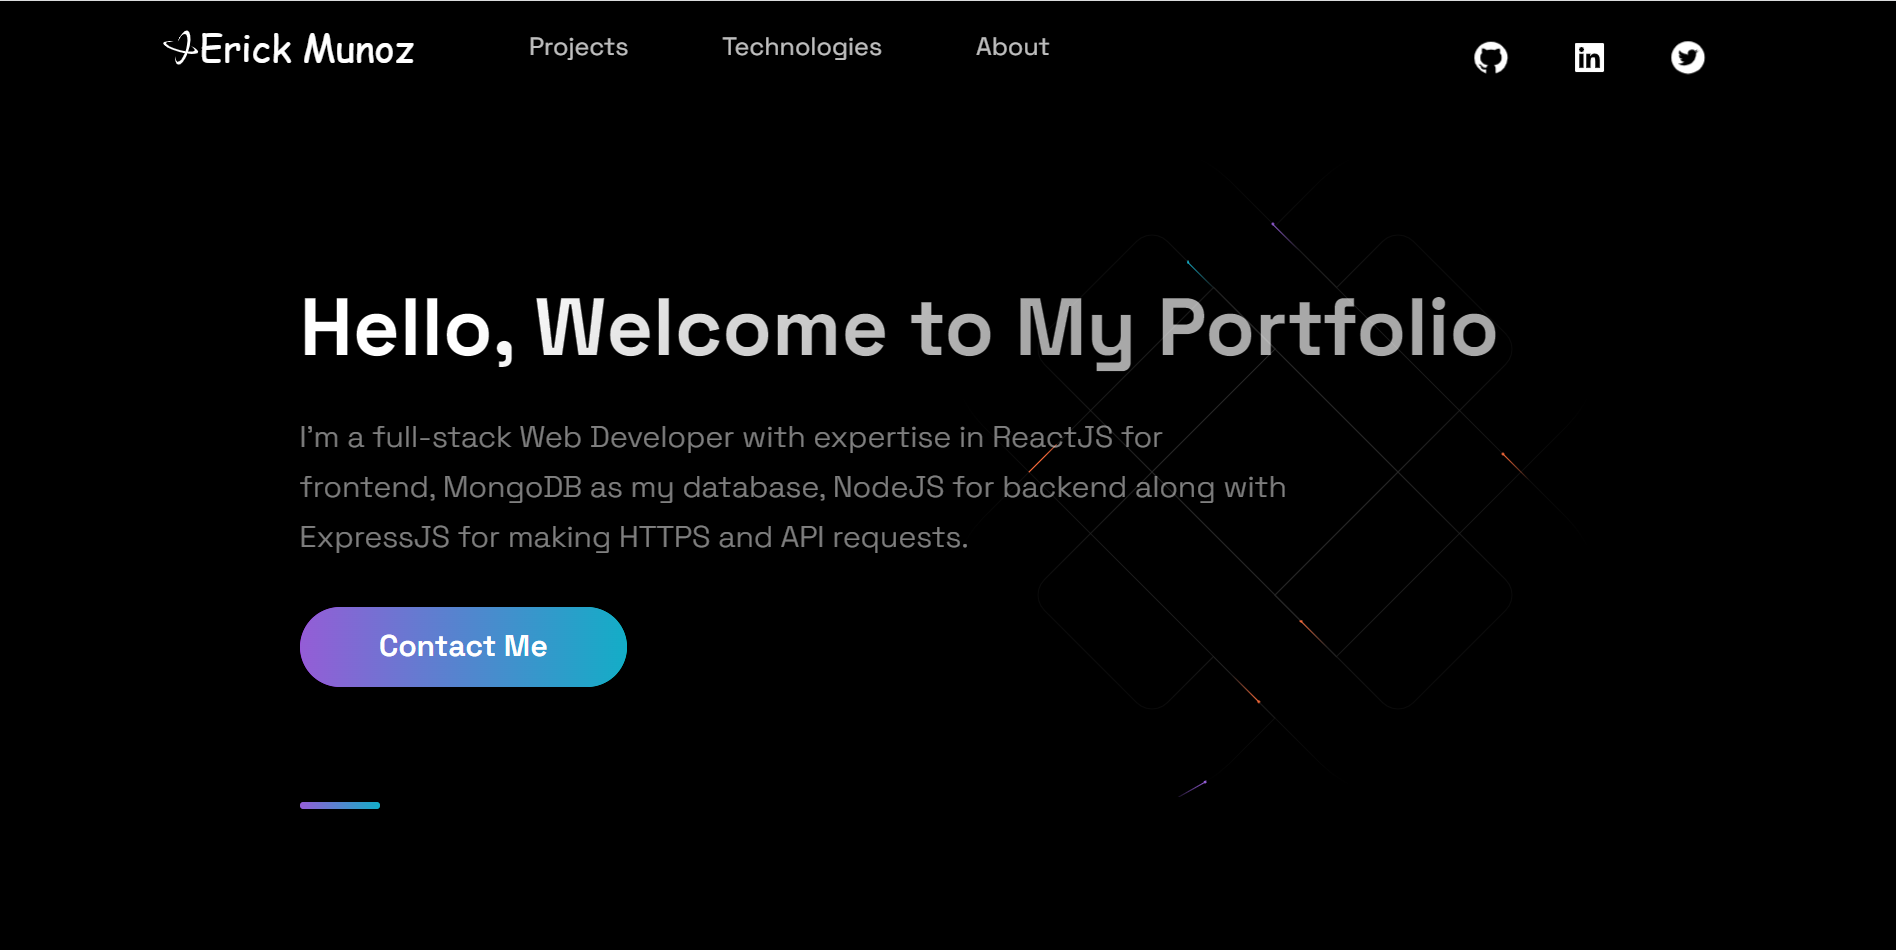
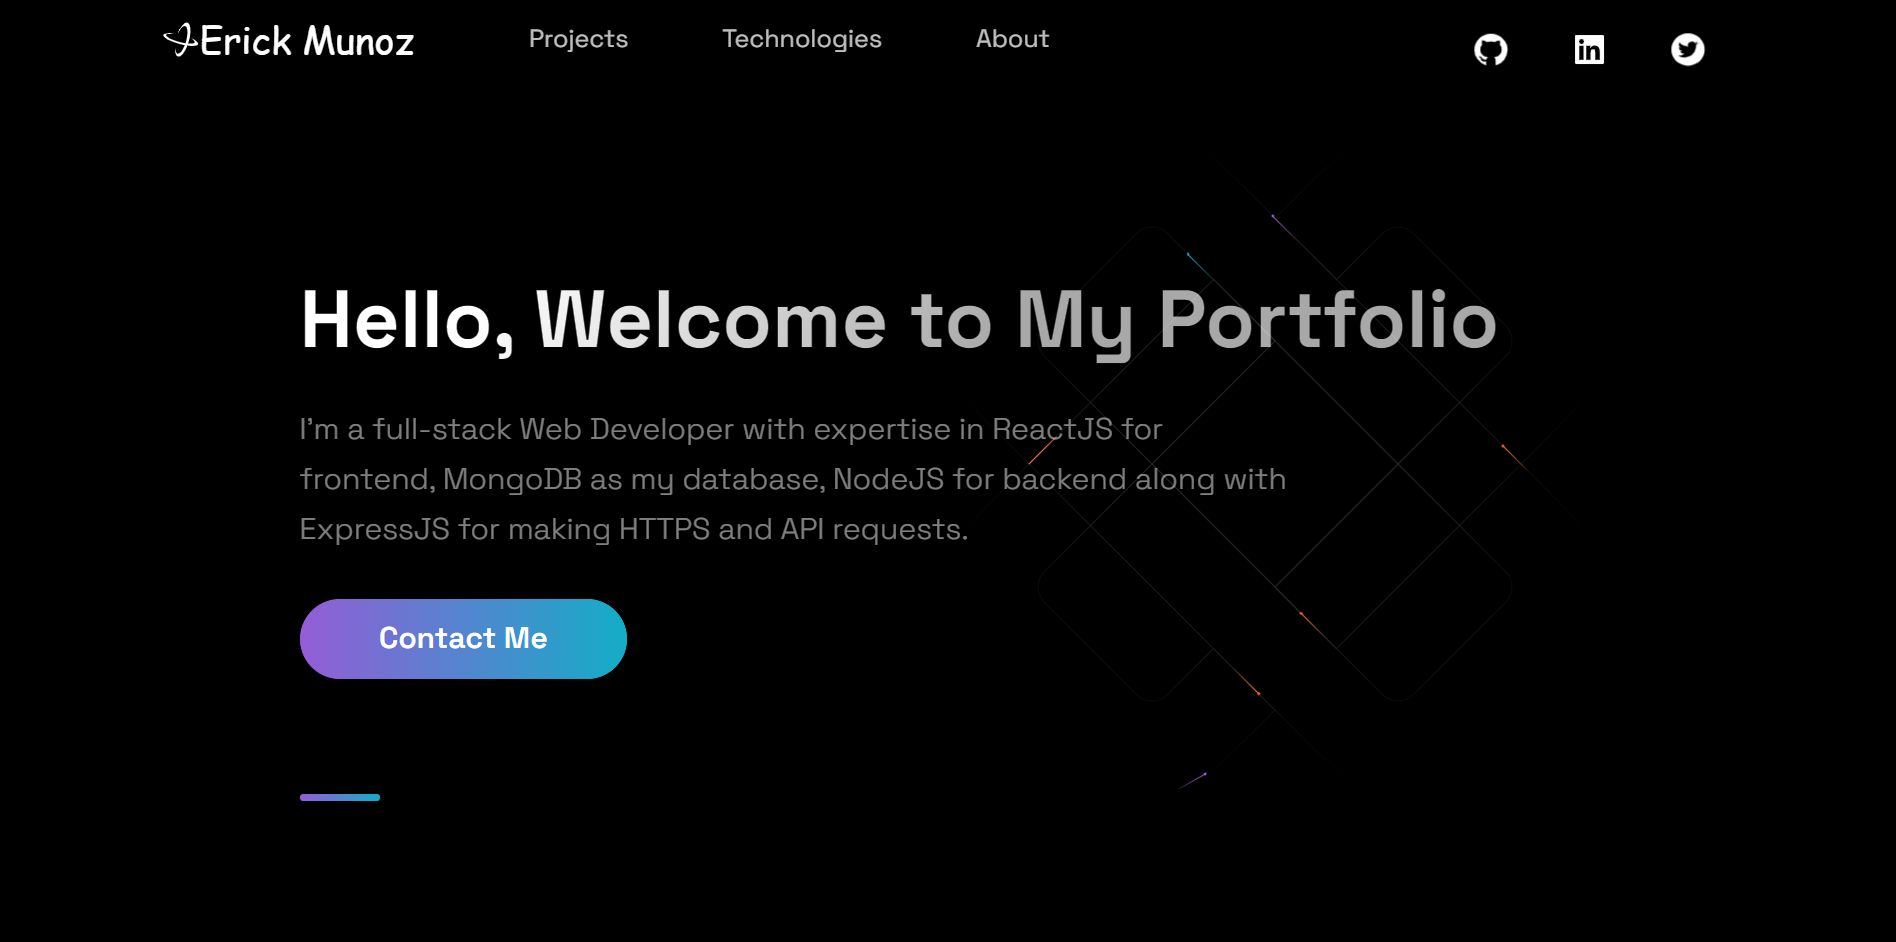
edit porfolio

diff --git a/static/iPortfolio/assets/css/style.css b/static/iPortfolio/assets/css/style.css
@@ -2,7 +2,8 @@
 # General
 --------------------------------------------------------------*/
 body {
-  font-family: -apple-system, BlinkMacSystemFont, 'Segoe UI', Roboto, Oxygen, Ubuntu, Cantarell, 'Open Sans', 'Helvetica Neue', sans-serif;
+  font-family: -apple-system, BlinkMacSystemFont, "Segoe UI", Roboto, Oxygen,
+    Ubuntu, Cantarell, "Open Sans", "Helvetica Neue", sans-serif;
   color: #000000;
   background-color: #000000;
   line-height: 42px;
@@ -163,7 +164,7 @@ h6 {
   padding: 12px 15px;
   margin-bottom: 8px;
   transition: 0.3s;
-  font-size: 15px;
+  font-size: 9px;
 }
 
 .nav-menu a i,
@@ -336,7 +337,6 @@ section {
   filter: grayscale(100%);
 }
 
-
 .about-p {
   display: block;
   color: rgb(135, 150, 156);
@@ -391,11 +391,12 @@ section {
 .Tech {
   color: rgb(135, 150, 156);
   padding: 20px 0 10px 10px;
-  font-size: 1.2rem;
+  font-size: 20px;
   line-height: 3rem;
   margin-left: 30px;
   font-weight: 500;
-  font-family: -apple-system, BlinkMacSystemFont, 'Segoe UI', Roboto, Oxygen, Ubuntu, Cantarell, 'Open Sans', 'Helvetica Neue', sans-serif;
+  font-family: -apple-system, BlinkMacSystemFont, "Segoe UI", Roboto, Oxygen,
+    Ubuntu, Cantarell, "Open Sans", "Helvetica Neue", sans-serif;
 }
 
 @media (max-width: 700px) {
@@ -413,9 +414,9 @@ section {
   justify-content: space-evenly;
   margin-right: 30px;
   font-weight: 600;
-  font-family: -apple-system, BlinkMacSystemFont, 'Segoe UI', Roboto, Oxygen, Ubuntu, Cantarell, 'Open Sans', 'Helvetica Neue', sans-serif;
-  
-
+  font-family: -apple-system, BlinkMacSystemFont, "Segoe UI", Roboto, Oxygen,
+    Ubuntu, Cantarell, "Open Sans", "Helvetica Neue", sans-serif;
+  font-size: 20px;
 }
 
 .Tech-stack h3 {
@@ -428,7 +429,6 @@ section {
     display: flex;
     flex-direction: column;
     margin: 75px;
-  
   }
 }
 
@@ -438,7 +438,6 @@ section {
 
 .backend {
   align-items: center;
-
 }
 
 .stack-tools {
@@ -474,9 +473,8 @@ section {
 # Portfolio
 --------------------------------------------------------------*/
 
-.portfolio a{
+.portfolio a {
   font-family: "Sedgwick Ave Display", cursive;
-
 }
 
 .items {
@@ -554,7 +552,7 @@ section {
 .portfolio .portfolio-wrap .portfolio-links a {
   color: #fff;
   font-size: 28px;
-  font-family: "Sedgwick Ave Display", cursive;;
+  font-family: "Sedgwick Ave Display", cursive;
   text-align: center;
   background: #040b14;
   transition: 0.3s;
@@ -589,10 +587,9 @@ section {
   margin-left: 2.7rem;
 }
 
-
-
 .contact {
   padding-bottom: 130px;
+  font-size: 20px;
 }
 
 .contact .info {
@@ -678,14 +675,18 @@ section {
   margin-right: 10px;
 }
 
+.nav-menu span {
+  font-size: 20px;
+}
+
 .nav-link i {
   color: #149ddd;
+  font-size: 28px;
 }
 
 .nav-link i:hover {
   color: #000000;
 }
-
 
 .contact .info .social-links:hover {
   color: black;

diff --git a/templates/index.html b/templates/index.html
@@ -4,7 +4,7 @@
 <head>
   <title>Erick Munoz | Portfolio</title>
   <meta id="Content" content="Erick's Munoz Portfolio" name="Erick Munoz">
-  <meta content="Erick's Portfolio" name="keywords">
+  <meta content="Erick's Portfolio" name="Erick Munoz Ontiveros">
   <meta charset="utf-8">
   <meta content="width=device-width, initial-scale=1.0" name="viewport">
   <meta >
@@ -73,7 +73,7 @@
   <section id="hero" class="d-flex flex-column justify-content-center align-items-center">
     <div class="hero-container" data-aos="fade-in">
       <h1 data-aos="fade-up" data-aos-delay="500">Erick Munoz</h1>
-      <p data-aos="fade-up" data-aos-delay="1000"><span class="typed" data-typed-items="Welcome!, Developer, Programmer,  Web Designer,  Freelancer,"></span></p>
+      <p data-aos="fade-up" data-aos-delay="1100"><span class="typed" data-typed-items="Welcome!, Software Developer, Web Programmer,  Web Designer,  Freelancer,"></span></p>
     </div>
   </section>
   <!-- End Hero -->
@@ -137,7 +137,7 @@
       </div>
       <br/>
       <div class="backend" data-aos="fade-up">
-        <h3>Backend</h3>
+        <h3>Back-end</h3>
         <ul style="display: flex">
           <i class="fab fa-python fa-2x"></i><h4 class="text">Python</h4>
         </ul>
@@ -147,7 +147,7 @@
       </div>
       <br/>
       <div class="stack-tools" data-aos="fade-right">
-        <h3 style="margin-left: 25px;">Tools</h3>
+        <h3 style="margin-left: 25px;">Tools </h3>
         <ul>
           ExpressJS | NextJS | ViteJS
         </ul>
@@ -282,7 +282,7 @@
           <p></p>
         </div>
 
-        <div class="row contact1" data-aos="fade-in">
+        <div class="row contact1" data-aos="fade-up">
 
           <div class="col-lg-5 d-flex align-items-stretch">
             <div class="info">
@@ -301,10 +301,10 @@
               <div class="phone">
                 <i class="bi bi-phone"></i>
                 <h4>Call:</h4>
-                <p>+320 321 4780</p>
+                <p>320.321.4780</p>
               </div>
                 <br>
-                <div class="social-icons" style="justify-content: space-between;">
+                <div class="social-icons">
                   <a href="https://github.com/Dungyy" class="twitter"><i class="bx bxl-github"></i></a>
                   <a href="https://twitter.com/codewithdungy" class="twitter"><i class="bx bxl-twitter"></i></a>
                   <a href="https://www.linkedin.com/in/erick-munoz-2532ab219/" class="linkedin"><i class="bx bxl-linkedin"></i></a>
